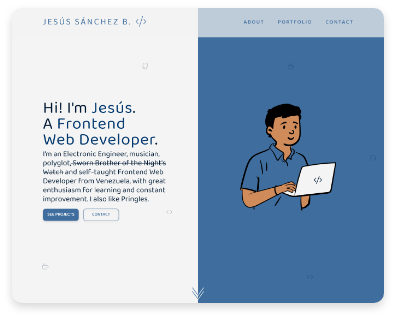
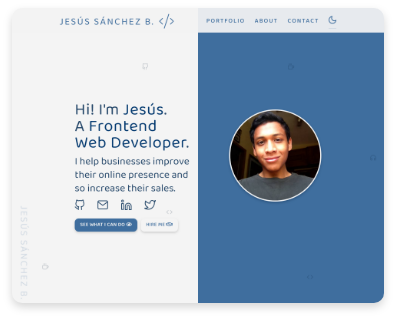
Updated portfolio's img in portfolio section. Deleted unnecessary files and code.

diff --git a/index.html b/index.html
@@ -98,11 +98,6 @@
               <div class="social">
                 <!-- GitHub icon link -->
                 <a href="https://github.com/Gsus" target="_blank">
-                  <!-- <img
-                    src="./Mobile/SVGs/githubB.svg"
-                    role="image"
-                    alt="GitHub Icon link"
-                /> -->
                   <svg
                     xmlns="http://www.w3.org/2000/svg"
                     width="25.088"
@@ -125,11 +120,6 @@
                 </a>
                 <!-- Mail icon link -->
                 <a href="mailto:sanchezbgsus@gmail.com" target="_blank">
-                  <!-- <img
-                    src="./Mobile/SVGs/mailB.svg"
-                    role="image"
-                    alt="Mail Icon link"
-                /> -->
                   <svg
                     xmlns="http://www.w3.org/2000/svg"
                     width="28.175"
@@ -162,11 +152,6 @@
                 </a>
                 <!-- LinkedIn Icon link -->
                 <a href="https://www.linkedin.com/in/gsussb/" target="_blank">
-                  <!-- <img
-                    src="./Mobile/SVGs/linkedinB.svg"
-                    role="image"
-                    alt="LinkedIn Icon link"
-                /> -->
                   <svg
                     xmlns="http://www.w3.org/2000/svg"
                     width="26.832"
@@ -516,11 +501,6 @@
               </a>
               <!-- Mail -->
               <a href="mailto:sanchezbgsus@gmail.com" target="_blank">
-                <!-- <img
-                  src="./Mobile/SVGs/mailB.svg"
-                  role="image"
-                  alt="Mail Icon link"
-              /> -->
                 <svg
                   xmlns="http://www.w3.org/2000/svg"
                   width="28.175"
@@ -553,11 +533,6 @@
               </a>
               <!-- LinkedIn -->
               <a href="https://www.linkedin.com/in/gsussb/" target="_blank">
-                <!-- <img
-                  src="./Mobile/SVGs/linkedinB.svg"
-                  role="image"
-                  alt="LinkedIn Icon link"
-              /> -->
                 <svg
                   xmlns="http://www.w3.org/2000/svg"
                   width="26.832"
@@ -619,7 +594,7 @@
             ></script>
 
             <img
-              src="./Desktop/Illustrations-SVG/Illustration w- coffee.svg"
+              src="./Mobile/Illustrations/Illustration w- coffee.svg"
               alt="Illustration. A man smiling wearing a blue shirt and a coffee cup in his hand"
               id="contact-illustration"
             />
